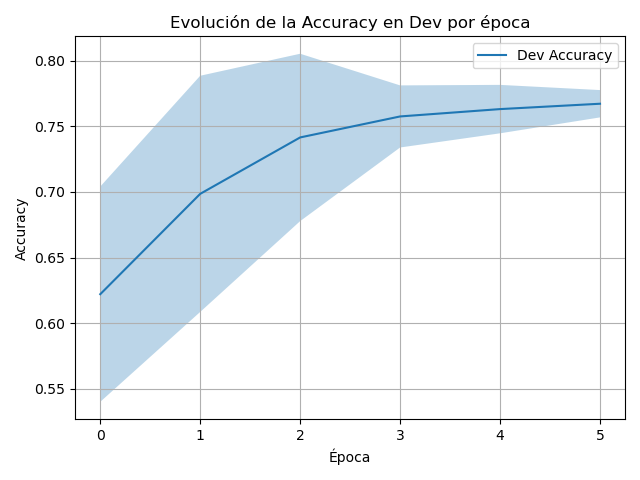
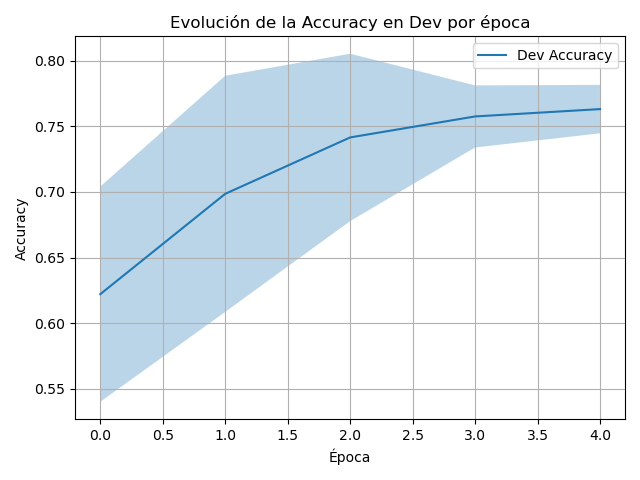
arreglos

diff --git a/estadisticas.py b/estadisticas.py
@@ -5,13 +5,13 @@ import matplotlib.pyplot as plt
 from statistics import mean, stdev
 import pandas as pd
 
-# Configuración
-log_dir = "outputs/salud_mental/sinKG/"
-file_pattern = "salud_mental{}_sinKG.log"
-output_dir = "estadisticas/salud_mental/sinKG"
-file_dev = "salud_mentalsinKG_evolucion_dev.png"
-file_test = "salud_mentalsinKG_evolucion_test.png"
-file_datos = "salud_mentalsinKG_datos.txt"
+# Configuración (ajusta si cambias de dataset o ubicación)
+log_dir = "outputs/toxicidad/sinKG/"
+file_pattern = "toxicidad{}_sinKG.log"
+output_dir = "estadisticas/toxicidad/sinKG"
+file_dev = "toxicidadsinKG_evolucion_dev.png"
+file_test = "toxicidadsinKG_evolucion_test.png"
+file_datos = "toxicidadsinKG_datos.txt"
 os.makedirs(output_dir, exist_ok=True)
 
 # Expresiones regulares
@@ -30,32 +30,31 @@ for i in range(1, 11):
     test_accs = []
     final_test_acc = None
     time_taken = None
-    current_eval = None  # Puede ser 'dev' o 'test'
 
     file_path = os.path.join(log_dir, file_pattern.format(i))
     with open(file_path, 'r', encoding='utf-8') as f:
         lines = f.readlines()
+        current_eval = None
+
         for j, line in enumerate(lines):
             if "Start evaluation on dev dataset" in line:
                 current_eval = "dev"
             elif "Start evaluation on test dataset" in line:
                 current_eval = "test"
+            elif "Final evaluation on the test dataset" in line:
+                current_eval = "final_test"
 
             acc_match = acc_pattern.search(line)
             if acc_match:
                 acc = float(acc_match.group(1))
+
+                # Detectar de forma más robusta a qué evaluación pertenece la línea
                 if current_eval == "dev":
                     dev_accs.append(acc)
                 elif current_eval == "test":
                     test_accs.append(acc)
-
-            if "Final evaluation on the test dataset" in line:
-                for offset in range(1, 15):
-                    if j + offset < len(lines):
-                        match = acc_pattern.search(lines[j + offset])
-                        if match:
-                            final_test_acc = float(match.group(1))
-                            break
+                elif current_eval == "final_test" and final_test_acc is None:
+                    final_test_acc = acc
 
             if "Tiempo total de ejecución" in line:
                 match = time_pattern.search(line)
@@ -74,7 +73,7 @@ for acc_list in epoch_dev_accs:
 for acc_list in epoch_test_accs:
     acc_list.extend([np.nan] * (max_len - len(acc_list)))
 
-# Estadísticas por época (usando ddof=1 para muestra)
+# Estadísticas por época
 dev_matrix = np.array(epoch_dev_accs)
 test_matrix = np.array(epoch_test_accs)
 mean_dev_per_epoch = np.nanmean(dev_matrix, axis=0)
@@ -93,14 +92,12 @@ with open(os.path.join(output_dir, file_datos), "w", encoding="utf-8") as out:
     out.write("== Evolución por época ==\n")
     out.write(f"{'Epoch':<6} {'Mean Dev Acc':<15} {'Std Dev Acc':<15} {'Count Dev':<10} {'Mean Test Acc':<15} {'Std Test Acc':<15} {'Count Test':<10}\n")
     for i in range(max_len):
-        # Contamos cuántos valores válidos (no-NaN) hay en cada época
         dev_count = np.count_nonzero(~np.isnan(dev_matrix[:, i]))
         test_count = np.count_nonzero(~np.isnan(test_matrix[:, i]))
 
         out.write(f"{i:<6} "
                   f"{mean_dev_per_epoch[i]:<15.4f} {std_dev_per_epoch[i]:<15.4f} {dev_count:<10} "
                   f"{mean_test_per_epoch[i]:<15.4f} {std_test_per_epoch[i]:<15.4f} {test_count:<10}\n")
-
 
 # Gráfica Dev
 plt.figure()

diff --git a/comparar_graficas.py b/comparar_graficas.py
@@ -4,11 +4,11 @@ import matplotlib.pyplot as plt
 import numpy as np
 
 # Rutas
-base_dir = "estadisticas/salud_mental"
-file_sinKG = os.path.join(base_dir, "sinKG", "salud_mentalsinKG_datos.txt")
-file_conKG = os.path.join(base_dir, "conKG", "salud_mentalconKG_datos.txt")
-dev = "salud_mental_dev_evolution.png"
-test = "salud_mental_test_evolution.png"
+base_dir = "estadisticas/toxicidad"
+file_sinKG = os.path.join(base_dir, "sinKG", "toxicidadsinKG_datos.txt")
+file_conKG = os.path.join(base_dir, "conKG", "toxicidadconKG_datos.txt")
+dev = "toxicidad_dev_evolution.png"
+test = "toxicidad_test_evolution.png"
 
 # Función para extraer la tabla de evolución del .txt
 def cargar_tabla_evolucion(path_txt):
